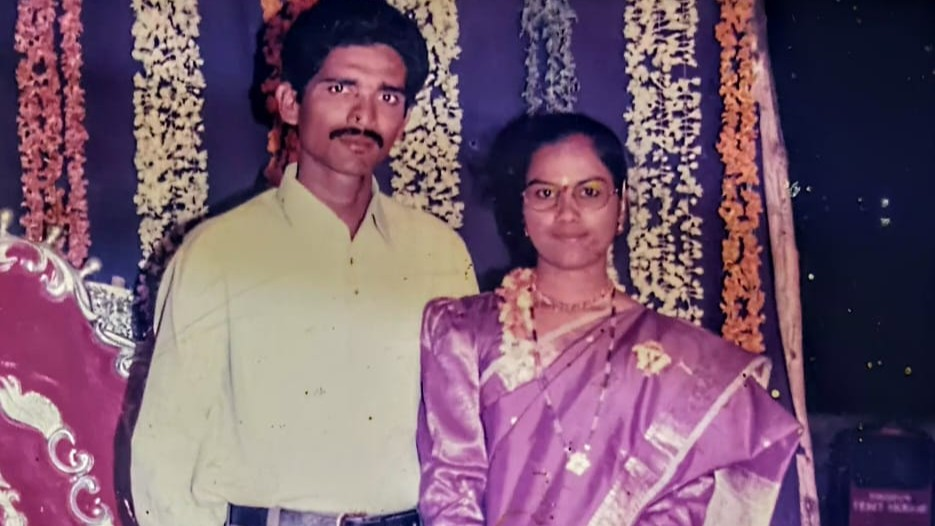
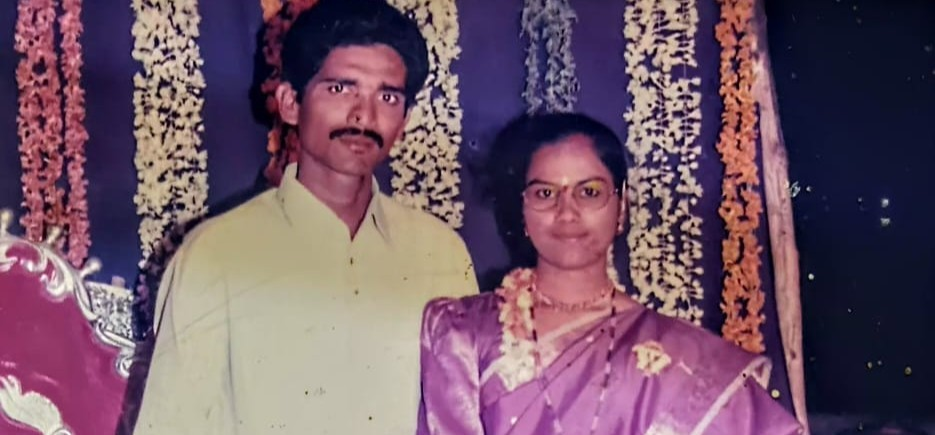
added hovering effects

diff --git a/src/pages/CelebrationPage.tsx b/src/pages/CelebrationPage.tsx
@@ -207,12 +207,12 @@ const CelebrationPage: React.FC<CelebrationPageProps> = ({ onCelebrateAgain }) =
                       whileInView={{ opacity: 1, scale: 1 }}
                       viewport={{ once: true }}
                       transition={{ duration: 0.5, delay: 0.4 }}
-                      className="rounded-xl overflow-hidden shadow-xl transform hover:scale-105 transition-transform duration-300"
+                      className="rounded-xl overflow-hidden shadow-xl hover:-scale-y-110 transform hover:scale-110 transition-transform duration-300"
                     >
                       <img
                         src={event.image}
                         alt={event.title}
-                        className="w-full h-64 object-cover"
+                        className="w-full h-72 object-cover"
                       />
                     </motion.div>
                   </div>
